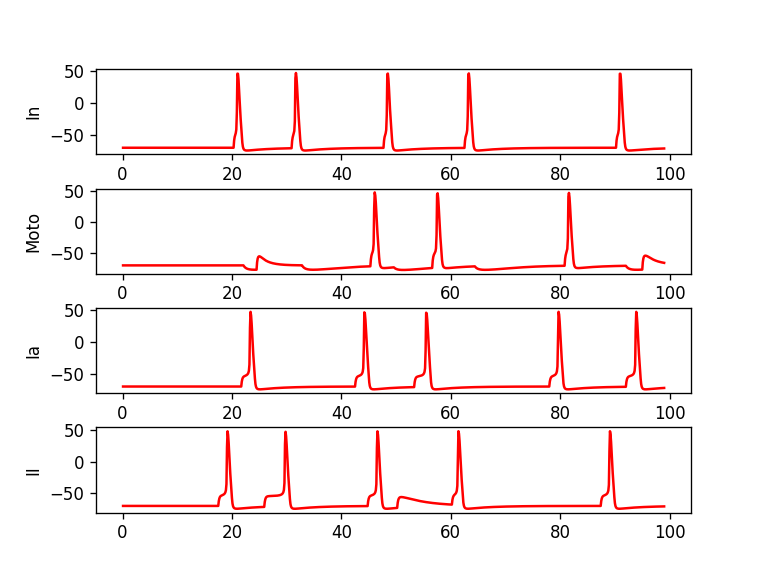
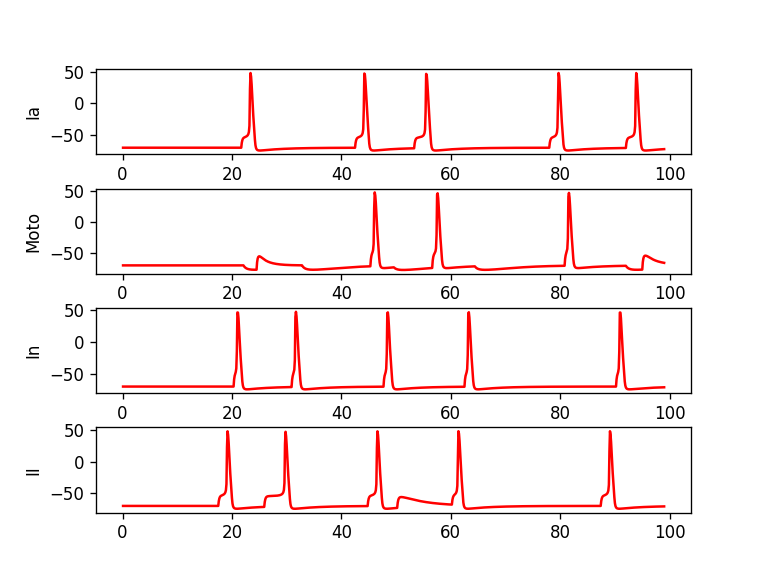
Change order of names

diff --git a/reflex_arc/nest/plotter.py b/reflex_arc/nest/plotter.py
@@ -1,11 +1,12 @@
 import pylab
 import os
-from pkg_resources import resource_filename
+import logging
 
-names = ['Moto', 'Ia', 'II', 'In']
+names = ['Ia', 'Moto', 'In', 'II']
 
 
 def plot_one(name):
+    logging.warning('plot one {}'.format(name))
     results = dict()
     for file in os.listdir('results'):
         if name.lower() in file:
@@ -24,8 +25,7 @@ def plot(gen_rate, glu_weight, gaba_weight, static_weight):
     print("plot start")
     for i in range(4):
         pylab.subplot(4, 1, i + 1)
-        plot_one(names[i-1])
-    # pylab.show()
+        plot_one(names[i])
     print("plot end")
     pylab.subplots_adjust(hspace=0.4)
     pylab.savefig('result{}Hz_glu{}_gaba{}_stat{}.png'.format(gen_rate, glu_weight, gaba_weight, static_weight), dpi=120)
@@ -35,8 +35,7 @@ def simple_plot(name):
     print("plot start")
     for i in range(4):
         pylab.subplot(4, 1, i + 1)
-        plot_one(names[i-1])
-    # pylab.show()
+        plot_one(names[i])
     print("plot end")
     pylab.subplots_adjust(hspace=0.4)
     pylab.savefig('result{}.png'.format(name), dpi=120)
